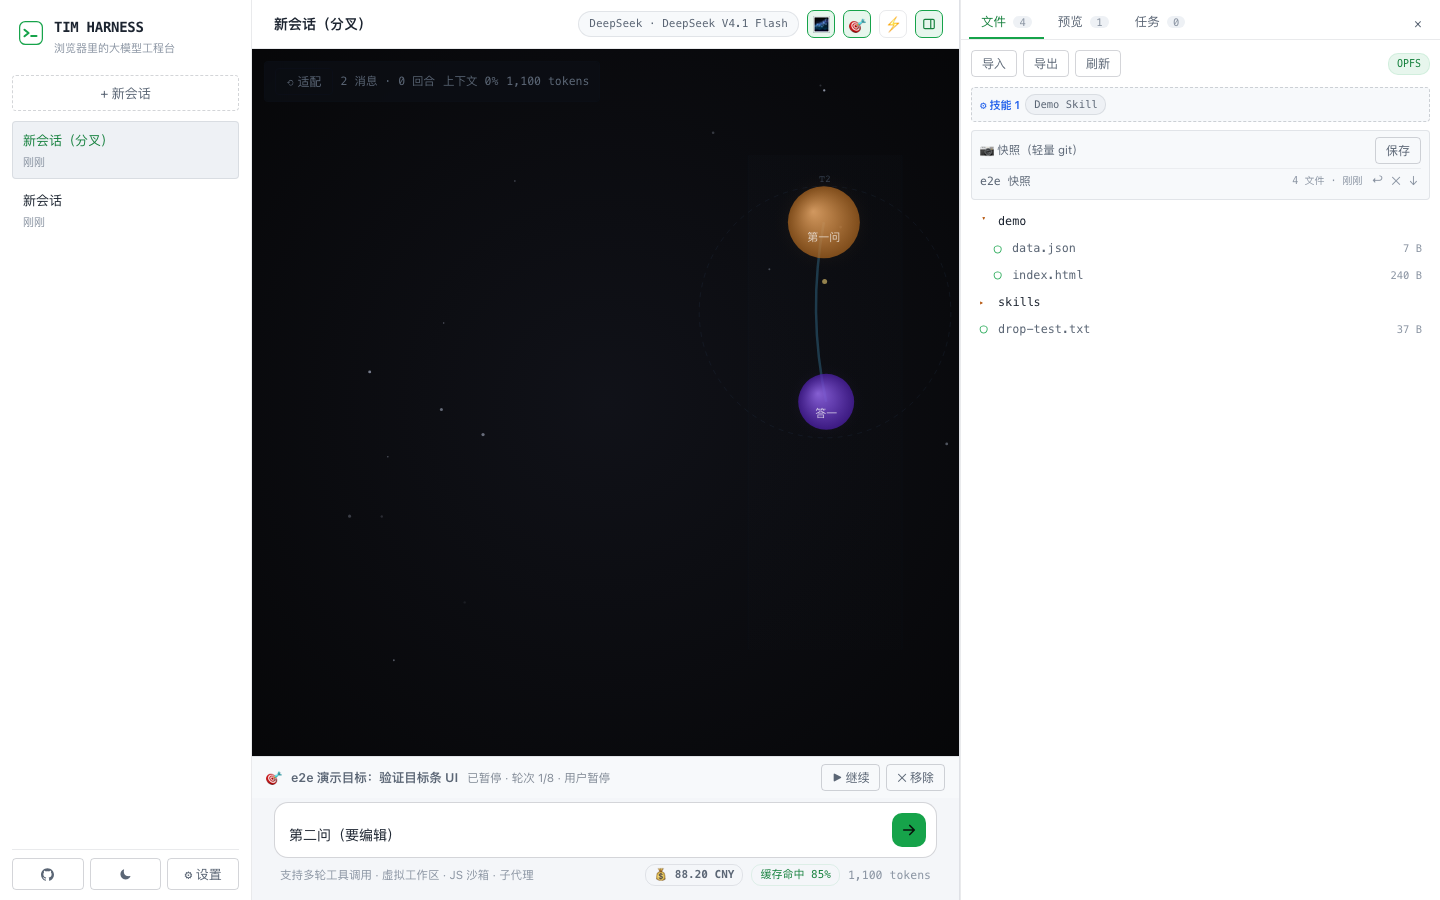
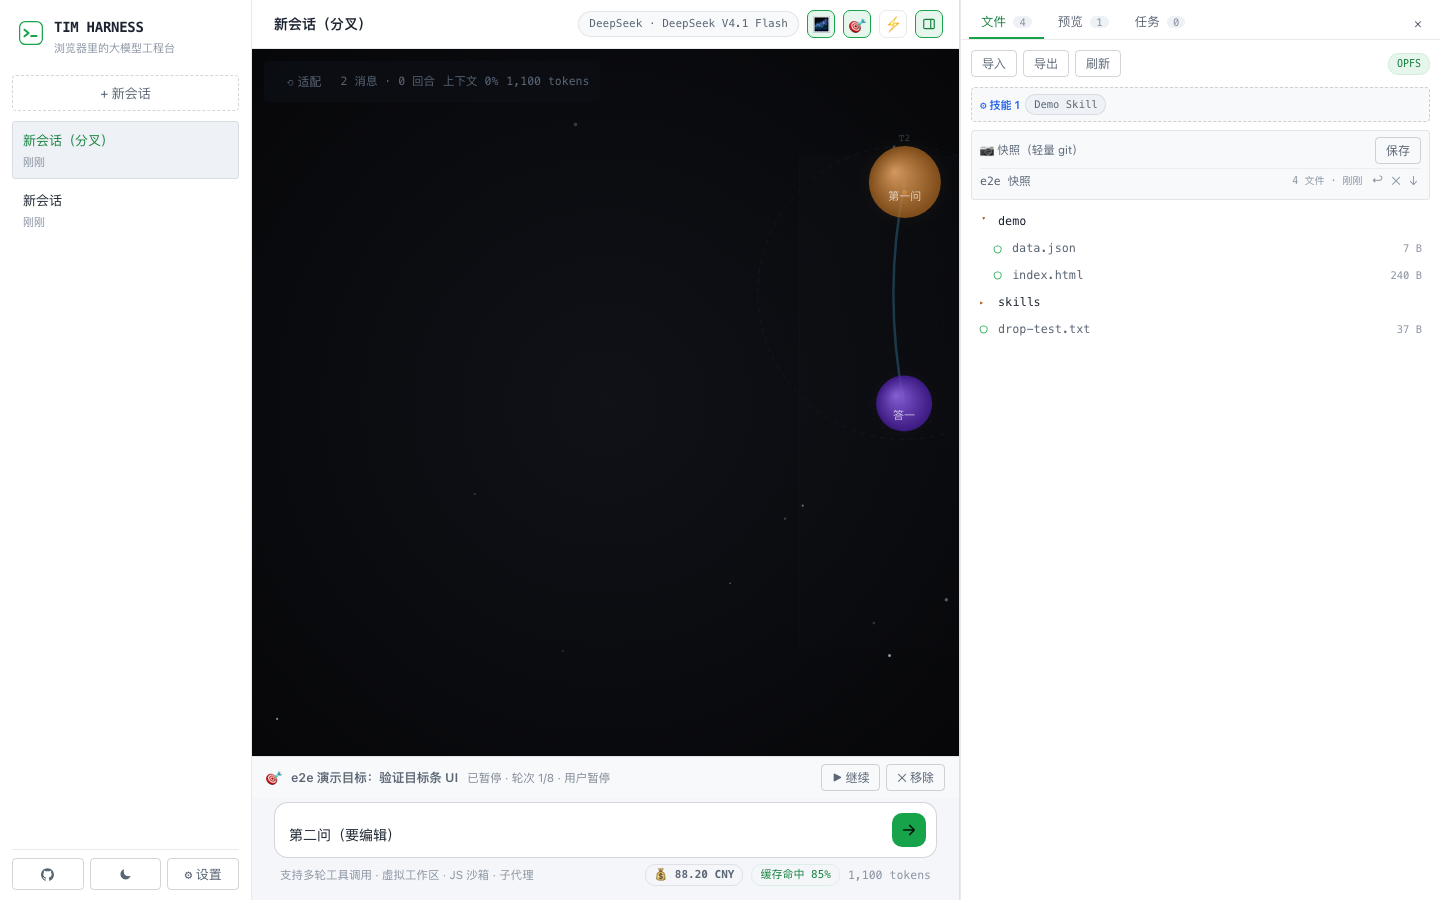
fix: 节点间距放宽 ~40%（JetBot 呼吸感折衷）
JetBot 的气泡间距参数（REPULSION=6000, REST=160）产生自然的呼吸感。
当前值偏紧（GAP=220, 列距=50, 行距=60）→ 视觉拥挤。

折衷调整（保持结构 + 增加呼吸空间）：
- 回合间距：220 → 300（+36%，每个回合的领地更宽）
- 工具列距：50 → 66（+32%，方块间有呼吸空间）
- 工具行距：60 → 78（+30%，行间更宽松）
- 层级间距：USER_Y -180→-220, TOOL_Y0 180→220（+22%）
- 微抖动：16 → 22（配合更宽间距，有机感更强）

帧采样稳定 ✓ e2e 全过

Changed region(s): [[0.5312, 0.1556, 0.6562, 0.3111], [0.5312, 0.4044, 0.6562, 0.4978]]

diff --git a/src/ui/components/CosmosCanvas2D.ts b/src/ui/components/CosmosCanvas2D.ts
@@ -26,12 +26,12 @@ interface SimS{nodes:Map<string,CosmosNode2D>;edges:CosmosEdge2D[];clusters:Map<
  *   仅在节点重叠时施加分离力（不影响语义位置）
  *   弹簧力保持连接的视觉关联
  */
-const GAP = 220
-const USER_Y = -180
+const GAP = 300
+const USER_Y = -220
 const ASST_Y = 0
-const TOOL_Y0 = 180
-const TOOL_DH = 60
-const JITTER = 16
+const TOOL_Y0 = 220
+const TOOL_DH = 78
+const JITTER = 22
 const COLLIDE = 15000
 const COLLIDE_RANGE = 1.5
 
@@ -52,7 +52,7 @@ export function tickSim(sim: SimS) {
       const row = n.gridRow ?? 0
       const toolCount = arr.filter((m) => m.turnId === n.turnId && m.kind === 'tool').length
       const centerOffset = (Math.min(toolCount, 3) - 1) / 2 * 44
-      targetX = n.turnId * GAP + col * 50 - centerOffset
+      targetX = n.turnId * GAP + col * 66 - centerOffset
       targetY = TOOL_Y0 + row * TOOL_DH
     }
     else { targetX = n.turnId * GAP + 100; targetY = 50 }
@@ -142,7 +142,7 @@ const nodes:CosmosNode2D[]=[],edges:CosmosEdge2D[]=[];let turn=0
 if(folded>0)nodes.push({id:'core',kind:'core',content:`⚡ ${folded} 条已压缩`,turnId:-1,birthTime:performance.now(),x:-GAP,y:0,vx:0,vy:0,radius:R.core,pinned:false,hue:KIND_HUE.core})
 msgs.slice(folded).forEach((m,i)=>{const now=performance.now()
 if(m.role==='user'){turn++;const id=`u${i}`,tx=turn*GAP+(Math.random()-.5)*40;nodes.push({id,kind:'user',content:(m.content??'').slice(0,120),turnId:turn,birthTime:now,x:tx,y:USER_Y+(Math.random()-.5)*JITTER,vx:0,vy:0,radius:R.user,pinned:false,hue:KIND_HUE.user});const p=nodes[nodes.length-2];if(p)edges.push({id:`xt${i}`,fromId:p.id,toId:id,type:'cross-turn'})}
-else if(m.role==='assistant'){const id=`a${i}`,tx=turn*GAP+(Math.random()-.5)*40;nodes.push({id,kind:'assistant',content:(m.content??'').slice(0,120)||`${m.tool_calls?.length??0} 工具`,turnId:turn,birthTime:now,x:tx,y:ASST_Y+(Math.random()-.5)*JITTER,vx:0,vy:0,radius:R.assistant,pinned:false,hue:KIND_HUE.assistant});const un=nodes.find(n=>n.kind==='user'&&n.turnId===turn);if(un)edges.push({id:`f${i}`,fromId:un.id,toId:id,type:'flow'});if(m.tool_calls)m.tool_calls.forEach((tc,j)=>{const tid=`t${i}_${j}`;nodes.push({id:tid,kind:'tool',content:tc.name,toolName:tc.name,turnId:turn,birthTime:now,x:tx+(j%3-(Math.min(m.tool_calls!.length,3)-1)/2)*50+(Math.random()-.5)*JITTER,y:TOOL_Y0+Math.floor(j/3)*TOOL_DH+(Math.random()-.5)*JITTER, gridCol:j%3, gridRow:Math.floor(j/3),vx:0,vy:0,radius:R.tool,pinned:false,hue:TOOL_HUE[tc.name]??210});edges.push({id:`g${tid}`,fromId:id,toId:tid,type:'grid'})})}
+else if(m.role==='assistant'){const id=`a${i}`,tx=turn*GAP+(Math.random()-.5)*40;nodes.push({id,kind:'assistant',content:(m.content??'').slice(0,120)||`${m.tool_calls?.length??0} 工具`,turnId:turn,birthTime:now,x:tx,y:ASST_Y+(Math.random()-.5)*JITTER,vx:0,vy:0,radius:R.assistant,pinned:false,hue:KIND_HUE.assistant});const un=nodes.find(n=>n.kind==='user'&&n.turnId===turn);if(un)edges.push({id:`f${i}`,fromId:un.id,toId:id,type:'flow'});if(m.tool_calls)m.tool_calls.forEach((tc,j)=>{const tid=`t${i}_${j}`;nodes.push({id:tid,kind:'tool',content:tc.name,toolName:tc.name,turnId:turn,birthTime:now,x:tx+(j%3-(Math.min(m.tool_calls!.length,3)-1)/2)*66+(Math.random()-.5)*JITTER,y:TOOL_Y0+Math.floor(j/3)*TOOL_DH+(Math.random()-.5)*JITTER, gridCol:j%3, gridRow:Math.floor(j/3),vx:0,vy:0,radius:R.tool,pinned:false,hue:TOOL_HUE[tc.name]??210});edges.push({id:`g${tid}`,fromId:id,toId:tid,type:'grid'})})}
 else if(m.role==='tool'){const tn=nodes.find(n=>n.kind==='tool'&&n.turnId===turn&&n.toolName===m.name&&n.durationMs==null);if(tn){tn.isError=m.toolOk===false;tn.durationMs=m.durationMs;tn.content=`${m.name} ${m.toolOk===false?'✗':'✓'}`}}})
 return{nodes,edges,clusters:[]}}
 interface Star{x:number;y:number;size:number;layer:number;alpha:number;twinkle:boolean}
